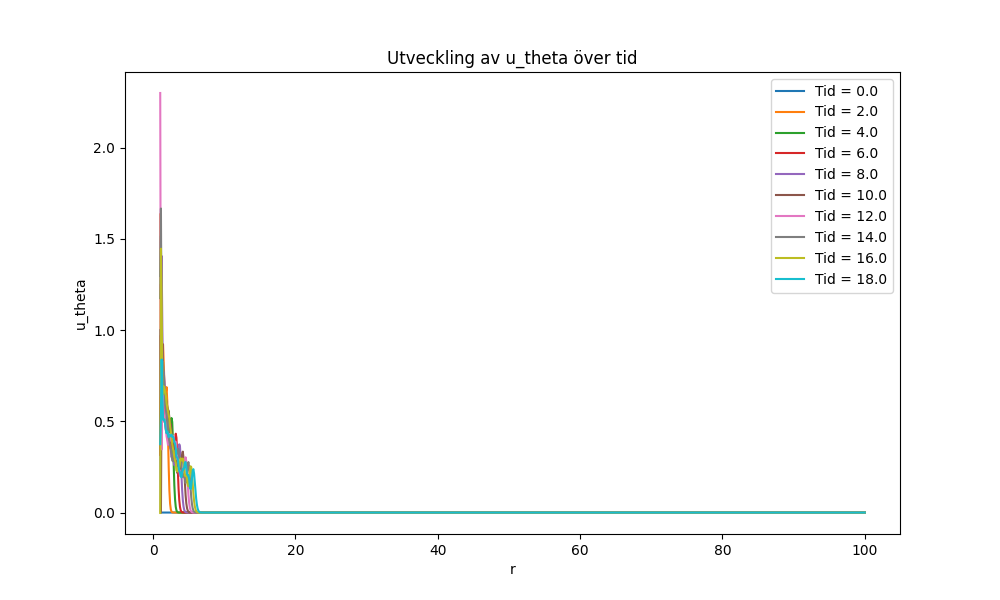
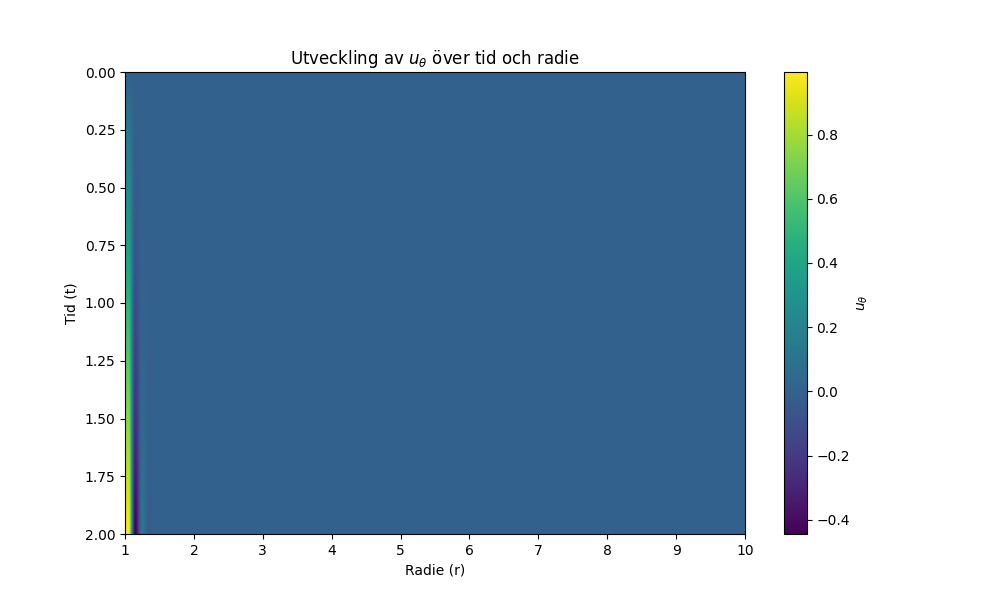
changed a plot

diff --git a/solution.py b/solution.py
@@ -5,7 +5,7 @@ my = 0.00089
 rho = 1000
 U = 0.1
 nu = my / rho
-R = 0.5  # Antaget värde för R, behöver justeras enligt specifika förhållanden
+R = 1  # Antaget värde för R, behöver justeras enligt specifika förhållanden
 omega = lambda t: 0.5 * t # Linjärt beroende, omega = 0.5 * t
 
 # Rums- och tidsparametrar
